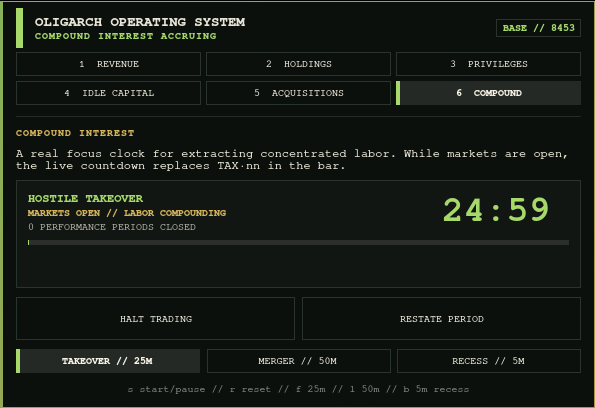
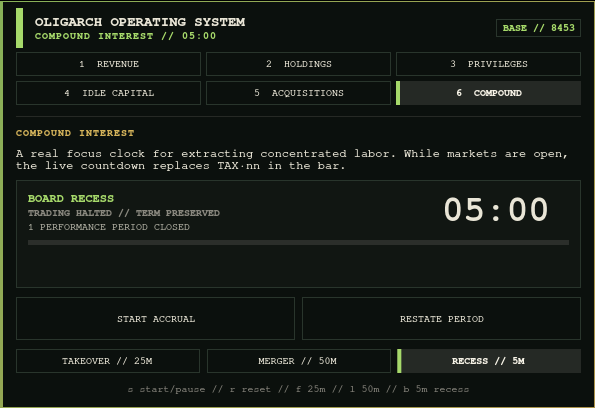
Adopt legacy Tax binds and refresh challenge media

diff --git a/validate_theme.py b/validate_theme.py
@@ -243,8 +243,19 @@ def validate_images() -> list[Path]:
         with Image.open(ROOT / "assets" / name) as image:
             assert image.size == size, f"unexpected {name} size: {image.size}"
             if name == "operating-system-tour.gif":
-                assert getattr(image, "n_frames", 0) >= 60, "operating-system tour is not meaningfully animated"
+                assert getattr(image, "n_frames", 0) >= 6, "operating-system tour must show all six desks"
                 assert image.info.get("loop") == 0, "operating-system tour must loop"
+    showcase_sizes = {
+        "apps-menu-launchers.png": (1280, 720),
+        "screensaver-pizza-party.png": (1280, 720),
+        "screensaver-suite.gif": (1280, 720),
+    }
+    for name, size in showcase_sizes.items():
+        with Image.open(ROOT / "assets" / name) as image:
+            assert image.size == size, f"unexpected {name} size: {image.size}"
+            if name == "screensaver-suite.gif":
+                assert getattr(image, "n_frames", 0) >= 5, "screensaver tour must show all five scenes"
+                assert image.info.get("loop") == 0, "screensaver tour must loop"
     return backgrounds
 
 

diff --git a/README.md b/README.md
@@ -6,7 +6,7 @@
 
 A complete Omarchy Quattro theme and native shell experience for the 2026 **Oligarchy** challenge.
 
-OLIGARCHY 4.4 is not a wallpaper with matching colors. It turns the desktop into a usable financial terminal, tax office, family office, executive panic room, portfolio manager, focus clock, and animated monument to capital allocation—while leaving Omarchy's real system behavior intact.
+OLIGARCHY 4.4.1 is not a wallpaper with matching colors. It turns the desktop into a usable financial terminal, tax office, family office, executive panic room, portfolio manager, focus clock, and animated monument to capital allocation—while leaving Omarchy's real system behavior intact.
 
 ## The joke now survives contact with the desktop
 
@@ -86,6 +86,8 @@ Start a 25-minute Hostile Takeover, a 50-minute Mega Merger, or a five-minute Bo
 
 Press `Super + Alt + Space` and search for **Department of Oligarch Revenue**, **Executive Exit Committee**, or **Mandatory Corporate Pizza Party**. These are real freedesktop launcher entries installed under unique OLIGARCHY filenames, so they appear in Omarchy's existing app library instead of creating a parallel launcher. Installation refuses an unrelated file collision; removal only touches entries that still carry OLIGARCHY's ownership marker.
 
+![Three OLIGARCHY entries in Omarchy's real Apps menu](assets/apps-menu-launchers.png)
+
 ## Five native animated screensavers
 
 These are live QML scenes, not background images. They render once per output, drift to reduce burn-in, rotate every 15 seconds, honor Omarchy's configured idle time, respect idle inhibitors, and dismiss on activity.
@@ -117,6 +119,8 @@ Nine disclosure vehicles orbit one beneficial owner who remains tastefully redac
 Minority shareholders are represented by a decorative chair. The motion still carries 1–0.
 
 ### Mandatory Corporate Pizza Party
+
+![Mandatory Corporate Pizza Party screensaver](assets/screensaver-pizza-party.png)
 
 Record profits become a $14.99 morale budget: labor receives one animated slice, leadership receives seven, merit increases remain at 0.0%, and the HR attendance counter steadily approaches compulsory enthusiasm.
 
